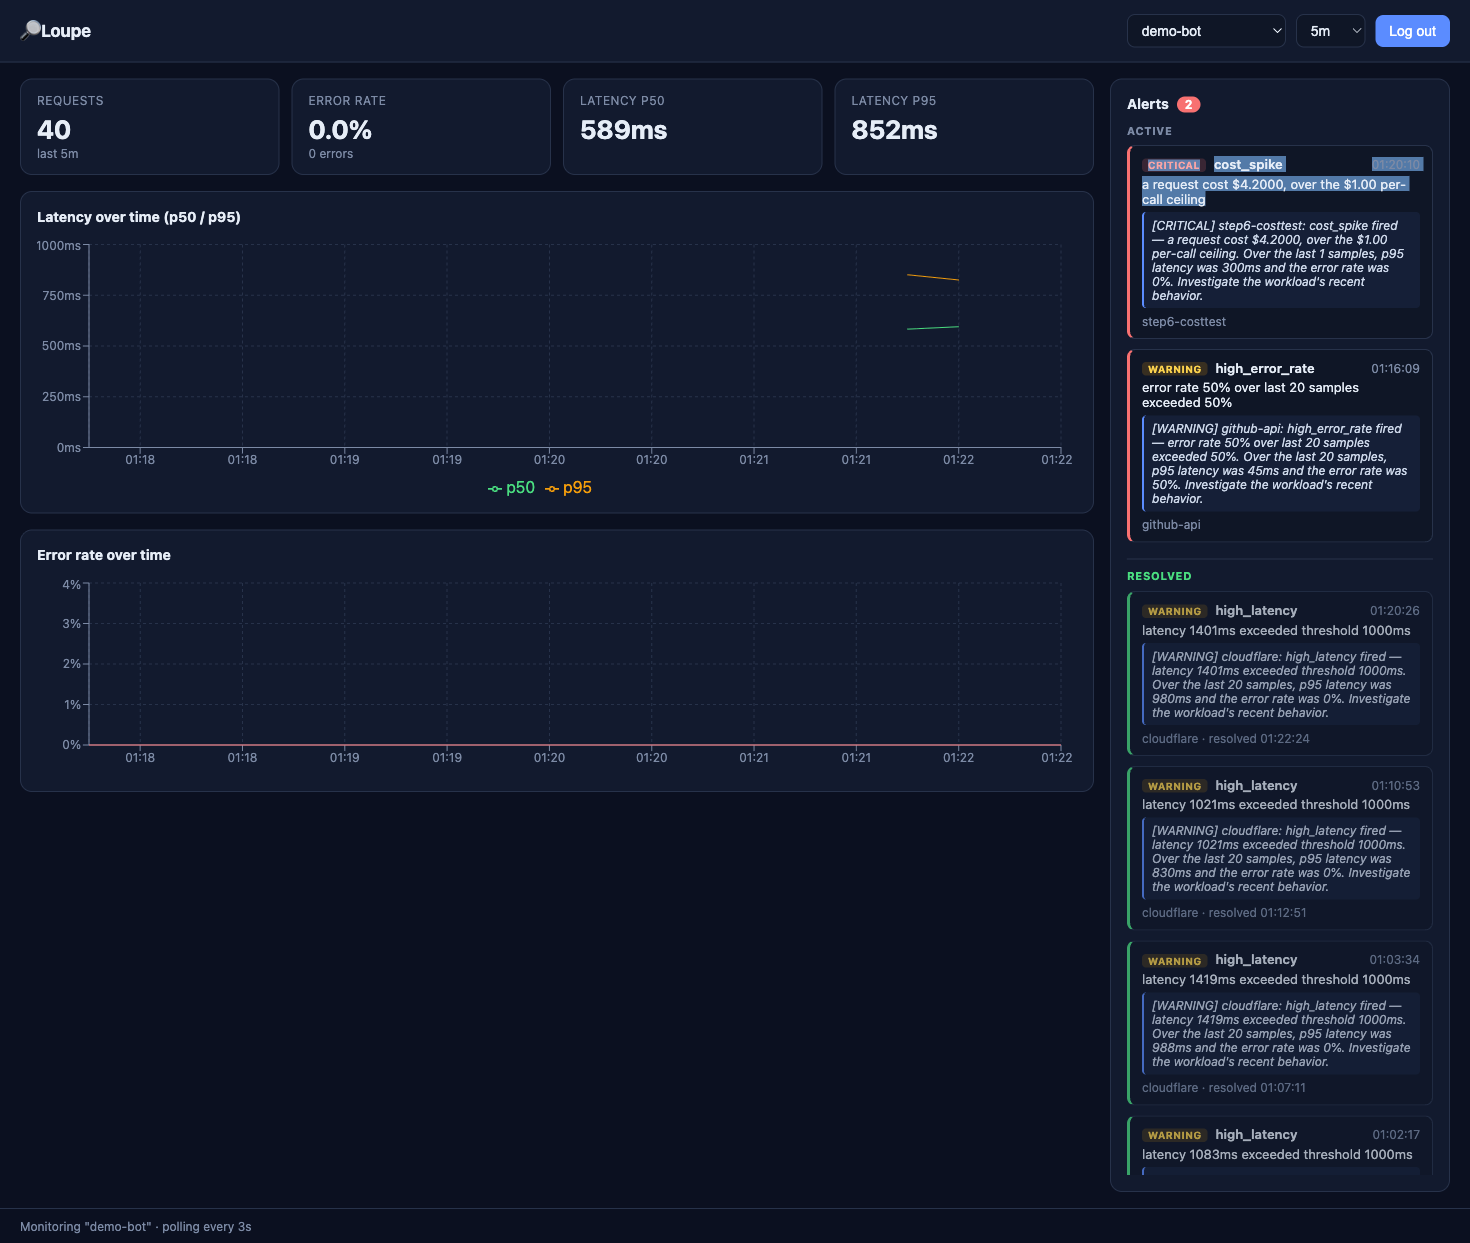
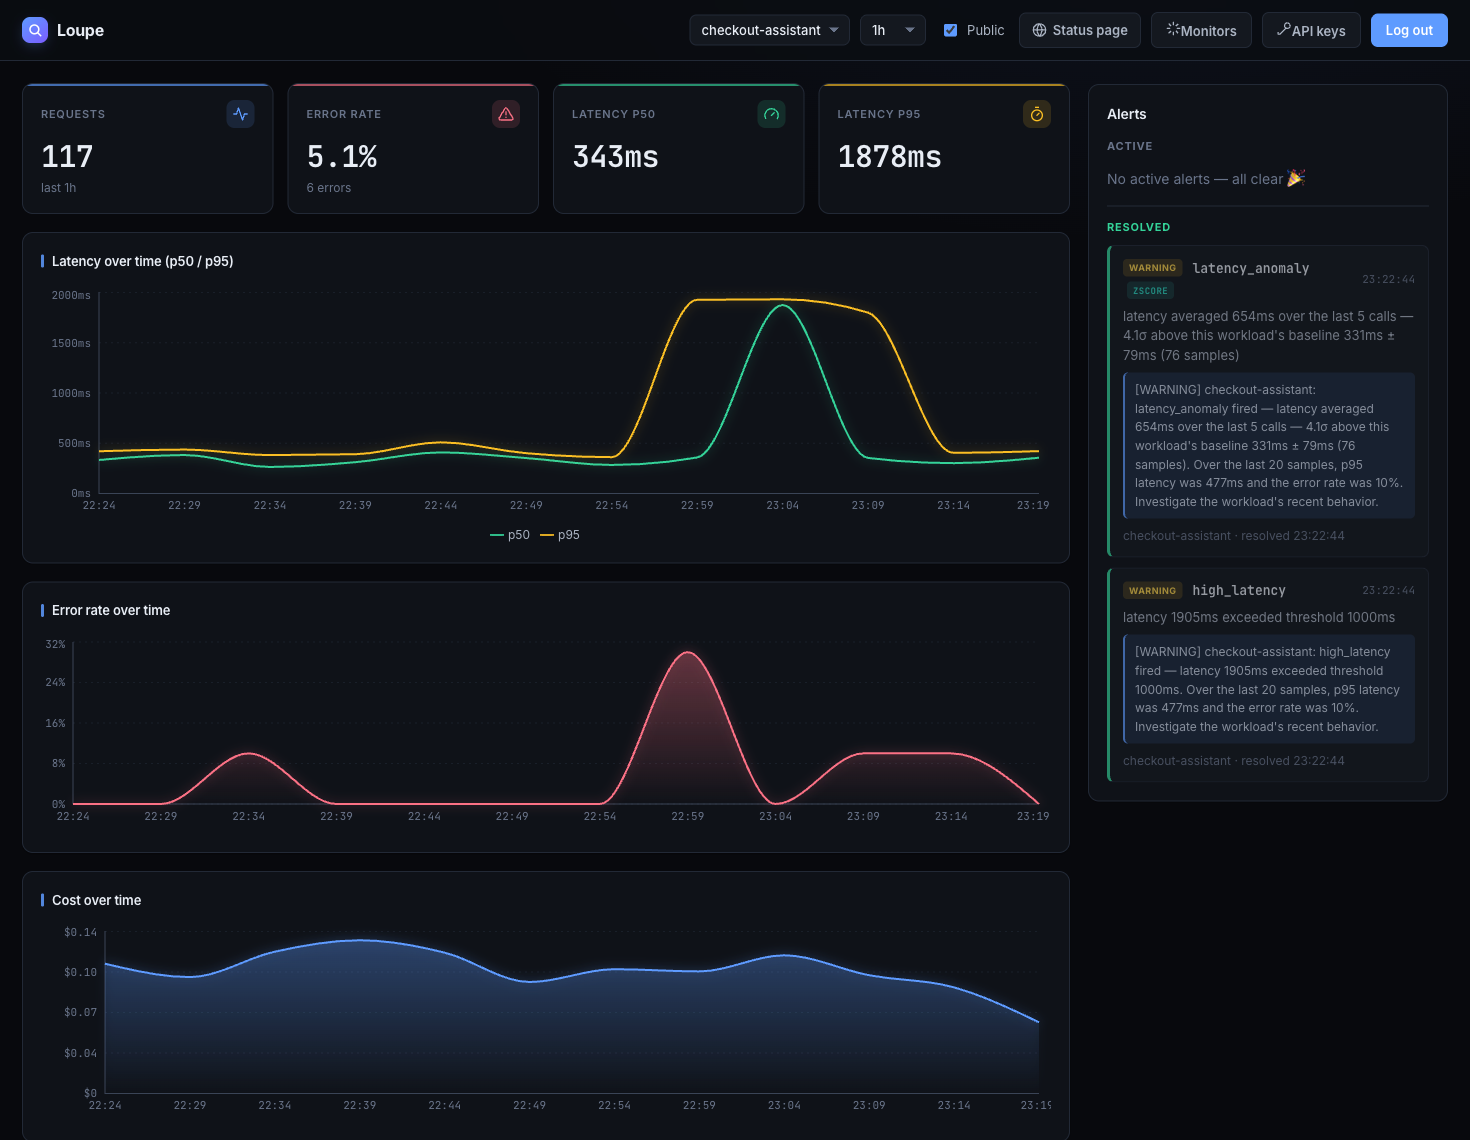
docs: refresh screenshots for new UI + document alert resolve/reopen
- Regenerate dashboard and status-page screenshots to reflect the visual
  overhaul (dark theme, mono numerics, restyled charts/cards).
- Add POST /alerts/{id}/resolve and /reopen to the API surface.
- Extract a shared Brand component and use it on the status page too, so the
  status header shows the SVG brand mark instead of the leftover emoji.

diff --git a/frontend/src/pages/DashboardPage.tsx b/frontend/src/pages/DashboardPage.tsx
@@ -8,6 +8,7 @@ import { setWorkloadPublic } from "../api/status";
 import { listWorkloads } from "../api/workloads";
 import AlertsPanel from "../components/AlertsPanel";
 import ApiKeysPanel from "../components/ApiKeysPanel";
+import Brand from "../components/Brand";
 import CostBreakdown from "../components/CostBreakdown";
 import CostChart, { type CostPoint } from "../components/CostChart";
 import ErrorRateChart, { type ErrorPoint } from "../components/ErrorRateChart";
@@ -251,24 +252,7 @@ export default function DashboardPage({ onLogout }: { onLogout: () => void }) {
   return (
     <div className="app">
       <header className="topbar">
-        <div className="brand">
-          <span className="brand-mark">
-            <svg
-              width="15"
-              height="15"
-              viewBox="0 0 24 24"
-              fill="none"
-              stroke="currentColor"
-              strokeWidth="2.5"
-              strokeLinecap="round"
-              strokeLinejoin="round"
-            >
-              <circle cx="11" cy="11" r="7" />
-              <path d="m21 21-4.3-4.3" />
-            </svg>
-          </span>
-          Loupe
-        </div>
+        <Brand />
         <div className="spacer" />
         <select
           aria-label="workload"

diff --git a/frontend/src/components/Brand.tsx b/frontend/src/components/Brand.tsx
@@ -1,0 +1,25 @@
+// The Loupe wordmark + gradient magnifier mark, shared by the dashboard topbar
+// and the public status page so the brand stays consistent.
+export default function Brand() {
+  return (
+    <div className="brand">
+      <span className="brand-mark">
+        <svg
+          width="15"
+          height="15"
+          viewBox="0 0 24 24"
+          fill="none"
+          stroke="currentColor"
+          strokeWidth="2.5"
+          strokeLinecap="round"
+          strokeLinejoin="round"
+          aria-hidden="true"
+        >
+          <circle cx="11" cy="11" r="7" />
+          <path d="m21 21-4.3-4.3" />
+        </svg>
+      </span>
+      Loupe
+    </div>
+  );
+}

diff --git a/frontend/src/pages/StatusPage.tsx b/frontend/src/pages/StatusPage.tsx
@@ -1,6 +1,7 @@
 import { useEffect, useState } from "react";
 
 import { getStatus } from "../api/status";
+import Brand from "../components/Brand";
 import type { StatusComponent, StatusPage as StatusPageData } from "../types";
 
 const REFRESH_MS = 15000;
@@ -55,7 +56,7 @@ export default function StatusPage() {
   return (
     <div className="status-page">
       <header className="status-head">
-        <div className="brand">🔎 Loupe</div>
+        <Brand />
         <div className="status-subtitle">Service status</div>
       </header>
 

diff --git a/README.md b/README.md
@@ -79,6 +79,7 @@ automatically on first boot.
 - `GET  /metrics/timeseries?workload_id=&window=&bucket=` (auth) — bucketed latency/errors + tokens/cost
 - `GET  /metrics/cost?window=` (auth) — account-wide spend, broken down by model and workload
 - `GET  /alerts` (auth) — supports `?workload_id=` and `?resolved=` filters
+- `POST /alerts/{id}/resolve` · `POST /alerts/{id}/reopen` (auth) — manually resolve an alert (e.g. one whose workload went quiet) or undo that
 - `GET  /workloads/{id}/monitors` (auth) — every rule's effective config for a workload
 - `PUT  /workloads/{id}/monitors/{rule}` (auth) — enable/disable or override a rule's threshold
 - `POST /auth/stream-ticket` (auth) — exchange the admin token for a short-lived, read-only ticket for the live stream
